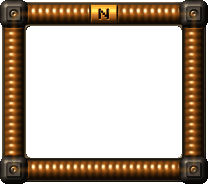
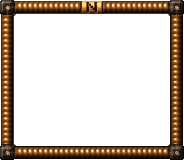
Port: MINIMAP in a slim frame E
Frame E's border was thick for the HUD. tools/designs.py's tube_frame_slim draws frame E's tubes,
corner caps and N cap with half the border round the same 78x66 map (92x80 HUD pixels at 1x
instead of 104x92); tools/export_frame.py writes it as the game embeds it. The gang icons on its
tubes are 9 pixels, clear of the N cap.

diff --git a/port/docs/minimap/tools/designs.py b/port/docs/minimap/tools/designs.py
@@ -323,6 +323,56 @@ def tube_frame(tube_rgb=hexrgb('#8a4a12')):
     return d
 
 
+def tube_frame_slim(tube_rgb=hexrgb('#8a4a12')):
+    """E, slim: frame E's tubes, caps and N with half its border, round the same 78x66 map. The one in the game."""
+    W, H = 92, 80
+    B = 7.0  # the border: housing, tube and lip
+    c = Canvas(W, H)
+    bronze = hexrgb('#86704c'); bronze_dk = hexrgb('#4a3a26')
+    house = sd_rrect(c, 0.5, 0.5, W - 0.5, H - 0.5, 4)
+    c.paint(house < 0, bronze, spec=0.35, shin=16, height=profile_bevel(-house, 1.2, 1.6))
+    inner = sd_rrect(c, B, B, W - B, H - B, 2)
+    lip = (inner >= 0) & (inner < 1.0)
+    c.paint(lip, bronze, spec=0.35, shin=16, height=1.8 + profile_round(inner, 1.0, 0.5))
+    T, Bt, L, R, rad = 3.6, H - 3.6, 3.6, W - 3.6, 2.7
+    groove = (house < 0) & (((np.abs(c.y - T) < rad + 0.6) | (np.abs(c.y - Bt) < rad + 0.6)) & (c.x > L) & (c.x < R) |
+                            ((np.abs(c.x - L) < rad + 0.6) | (np.abs(c.x - R) < rad + 0.6)) & (c.y > T) & (c.y < Bt))
+    c.paint(groove, bronze_dk, height=0.5)
+    for yc in (T, Bt):
+        m = (np.abs(c.y - yc) < rad) & (c.x > L) & (c.x < R)
+        _tube(c, m, np.abs(c.y - yc), c.x, rad, tube_rgb, period=2.6)
+    for xc in (L, R):
+        m = (np.abs(c.x - xc) < rad) & (c.y > T) & (c.y < Bt)
+        _tube(c, m, np.abs(c.x - xc), c.y, rad, tube_rgb, period=2.6)
+    # N cap in the top tube, brighter, its N engraved
+    cx = W / 2
+    cap = (np.abs(c.y - T) < rad + 0.4) & (np.abs(c.x - cx) < 5.5)
+    c.paint(cap, tuple(min(255, v * 2.1) for v in tube_rgb), spec=0.9, shin=30,
+            height=1.1 + profile_round(rad + 0.4 - np.abs(c.y - T), 2 * rad + 0.8, rad * 0.9))
+    c.emit[cap] *= 0
+    c.paint(cap & (np.abs(np.abs(c.x - cx) - 5.5) < 0.4), bronze_dk, height=0.9)
+    g = glyph_mask(c, GLYPHS['N'], cx - 2.5, T - 2.5, 1.0) * cap
+    c.paint(g, hexrgb('#1a0c04'), add=-1.3)
+    # rubber corner caps with a bronze rivet
+    for x0, y0 in ((L, T), (R, T), (L, Bt), (R, Bt)):
+        k = sd_rrect(c, x0 - 4, y0 - 4, x0 + 4, y0 + 4, 2.5)
+        c.paint(k < 0, hexrgb('#3a332c'), spec=0.45, shin=14, height=profile_round(np.minimum(-k, 2.2), 4.4, 3.8) + np.where(-k > 2.2, 3.8, 0))
+        rv = sd_circle(c, x0, y0, 1.2)
+        c.paint(rv < 0, bronze, spec=0.8, shin=30, height=4.0 + profile_round(-rv, 1.2, 0.6))
+    c.alpha[house < 0] = 1
+    screen = sd_rrect(c, B, B, W - B, H - B, 2)
+    c.alpha[screen < 0] = 0
+    d = Design()
+    d.name = 'E_tube_frame_slim'; d.title = 'E  Tube frame, slim'
+    d.canvas = c; d.W, d.H = W, H
+    d.rgb = _falloff(c, shade(c)[0])
+    d.screen_sd = screen; d.screen_box = (B, B, W - B, H - B); d.center = (W / 2, H / 2)
+    c.sw, c.sh = W - 2 * B, H - 2 * B
+    d.glass = _glass(c, screen, W / 2, H / 2, 'rect')
+    d.map_style = 'schematic'; d.rotates = False
+    return d
+
+
 def police_scanner():
     """F: a police radar scanner: navy plastic housing, red and blue light bar, curved CRT with a phosphor sweep."""
     W, H = 104, 100
@@ -443,3 +493,5 @@ def gps_handheld():
 
 BUILDERS = [respect_ring, pager_handset, steel_plate, compass_dial]
 BUILDERS2 = [tube_frame, police_scanner, dash_gauge, gps_handheld]
+# Variants not in the study's sheets.
+VARIANTS = [tube_frame_slim]

diff --git a/port/src/minimap.cpp b/port/src/minimap.cpp
@@ -1,4 +1,4 @@
-// The minimap in the HUD's bottom left corner (frame E of port/docs/minimap), the MAP waypoint's arrow by the player, and
+// The minimap in the HUD's bottom left corner (frame E of port/docs/minimap, slim), the MAP waypoint's arrow by the player, and
 // the drawing both maps share.
 #include "minimap.hpp"
 #include "minimap_internal.hpp"
@@ -28,16 +28,17 @@ namespace
 {
 const f32 kPi = 3.14159265f;
 
-// Frame E in HUD pixels at 1x: its size, the map's hole, the tubes' middle lines (the rail the gang icons ride on) and
-// the N cap on the top tube (tools/designs.py tube_frame), its distance from the screen's bottom left corner.
-const f32 kFrameW = 104.0f;
-const f32 kFrameH = 92.0f;
-const f32 kHole[4] = {13.0f, 13.0f, 91.0f, 79.0f};
-const f32 kRail[4] = {7.0f, 7.0f, 97.0f, 85.0f};
-const f32 kRailCorner = 9.0f; // the corner caps
-const f32 kNorthCap = 7.0f;   // its half width
+// Frame E, slim, in HUD pixels at 1x: its size, the map's hole, the tubes' middle lines (the rail the gang icons ride
+// on), its corner caps and the N cap on the top tube (tools/designs.py tube_frame_slim), its distance from the screen's
+// bottom left corner.
+const f32 kFrameW = 92.0f;
+const f32 kFrameH = 80.0f;
+const f32 kHole[4] = {7.0f, 7.0f, 85.0f, 73.0f};
+const f32 kRail[4] = {3.6f, 3.6f, 88.4f, 76.4f};
+const f32 kRailCorner = 6.0f;
+const f32 kNorthCap = 5.5f; // its half width
 const f32 kMargin = 6.0f;
-const f32 kGangIconSize = 11.0f;
+const f32 kGangIconSize = 9.0f;
 const f32 kPhoneSize = 12.0f;
 
 // Blocks across the map: closer on foot, further out as the camera rises with speed (its height 0 to 14).
@@ -141,7 +142,7 @@ void DrawTurfs(const View& v, f32 frameLeft, f32 frameTop)
         const f32 cap = kRailCorner * ui;
         f32 x = alongX ? fminf(fmaxf(railX + dx * k, rail[0] + cap), rail[2] - cap) : (dx < 0 ? rail[0] : rail[2]);
         f32 y = alongX ? (dy < 0 ? rail[1] : rail[3]) : fminf(fmaxf(railY + dy * k, rail[1] + cap), rail[3] - cap);
-        const f32 clearance = (kNorthCap + kGangIconSize / 2 + 1.0f) * ui;
+        const f32 clearance = (kNorthCap + kGangIconSize / 2 + 3.0f) * ui;
         if (alongX && dy < 0 && fabsf(x - railX) < clearance)
         {
             x = railX + (x < railX ? -clearance : clearance);

diff --git a/port/docs/minimap/tools/export_frame.py b/port/docs/minimap/tools/export_frame.py
@@ -1,0 +1,34 @@
+# Writes one frame design's pictures as the game embeds them (frame, glass, screen mask at 1x and 2x), the way
+# make_all.py writes the study's: e.g. the slim frame E the minimap uses.
+# usage: python3 -I export_frame.py <design function in designs.py> <out dir>
+import os, sys
+sys.path.insert(0, os.path.dirname(os.path.abspath(__file__)))
+import numpy as np
+from PIL import Image
+import designs
+from mm_lib import SS, downsample
+
+
+def soft(arr, scale):
+    H, W = arr.shape
+    return np.asarray(Image.fromarray(arr.astype(np.float32), 'F').resize(
+        (int(round(W / SS * scale)), int(round(H / SS * scale))), Image.BOX))
+
+
+def main():
+    d = getattr(designs, sys.argv[1])()
+    out = sys.argv[2]
+    os.makedirs(out, exist_ok=True)
+    for s in (1, 2):
+        downsample(d.rgb, d.canvas.alpha, s, 128).save(os.path.join(out, 'frame_%dx.png' % s))
+        grgb, ga = d.glass
+        rgb = np.dstack([soft(grgb[..., i], s) for i in range(3)])
+        a = soft(ga, s)
+        Image.fromarray(np.dstack([np.clip(rgb, 0, 1) * 255, np.clip(a, 0, 1) * 255]).astype(np.uint8), 'RGBA').save(
+            os.path.join(out, 'glass_%dx.png' % s))
+        m = soft((d.screen_sd < 0).astype(np.float32), s)
+        Image.fromarray((m * 255).astype(np.uint8), 'L').save(os.path.join(out, 'screen_mask_%dx.png' % s))
+
+
+if __name__ == '__main__':
+    main()

diff --git a/port/src/minimap_internal.hpp b/port/src/minimap_internal.hpp
@@ -22,7 +22,7 @@ enum Slot
 {
     kMapSlot,
     kStyledSlot, // the MAP's picture, gang territories tinted
-    kFrameSlot,  // frame E of port/docs/minimap: the tubes round the map
+    kFrameSlot,  // frame E of port/docs/minimap, slim: the tubes round the map
     kGlassSlot,  // and its glass over the map
     kArrowSlot,
     kBlipSlot,

diff --git a/port/docs/minimap/README.md b/port/docs/minimap/README.md
@@ -1,6 +1,6 @@
 # A minimap for the port
 
-Status: in the game as DISPLAY > MINIMAP in frame E below (`port/src/minimap*.cpp`), and as the pause
+Status: in the game as DISPLAY > MINIMAP in a slim frame E (`port/src/minimap*.cpp`), and as the pause
 menu's MAP (`port/src/city_map.cpp`): see [In the game](#in-the-game). The rest of this note is the design
 study it came from: the frame designs, the map treatments, where every map layer comes from, and how it
 would be built.
@@ -175,8 +175,10 @@ and blip rules, not code to copy.
 
 DISPLAY > MINIMAP, off by default and in both styles: it adds what the original never showed, so players turn it on.
 
-- **Place and look:** frame E (104x92 HUD pixels at 1x, the map in its 78x66 hole, the glass over it) in the
-  bottom left corner, 6 from the safe area's edges, scaled by HUD SCALE. Where a brief's face reaches it
+- **Place and look:** frame E, slim (`tools/designs.py` `tube_frame_slim`: frame E's tubes, caps and N with
+  half its border, 92x80 HUD pixels at 1x, the map in its 78x66 hole, the glass over it; written by
+  `tools/export_frame.py tube_frame_slim <dir>`) in the bottom left corner, 6 from the safe area's edges,
+  scaled by HUD SCALE. Where a brief's face reaches it
   (4:3), it fades while the brief shows.
 - **Map:** built for each level (`PortMinimap::Reset` from `Hud::Init`) from `gMap_0x370` and the style's
   tiles, 4 texels per block: each texel the average colour of 16x16 texels of the top lid, turned and flipped
